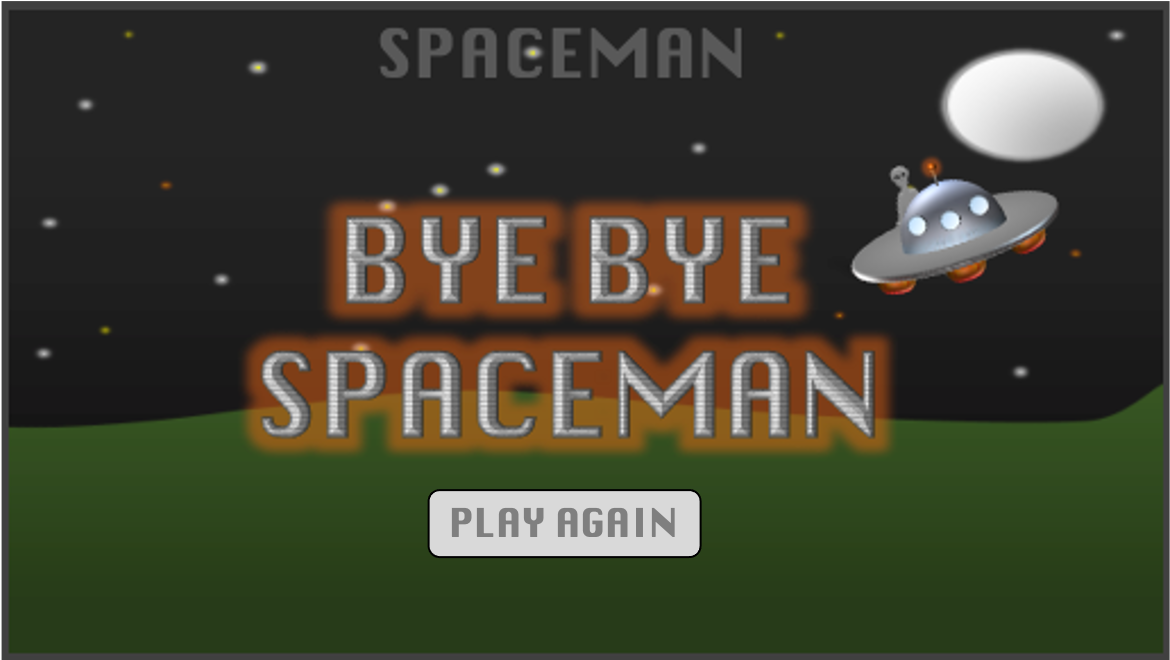
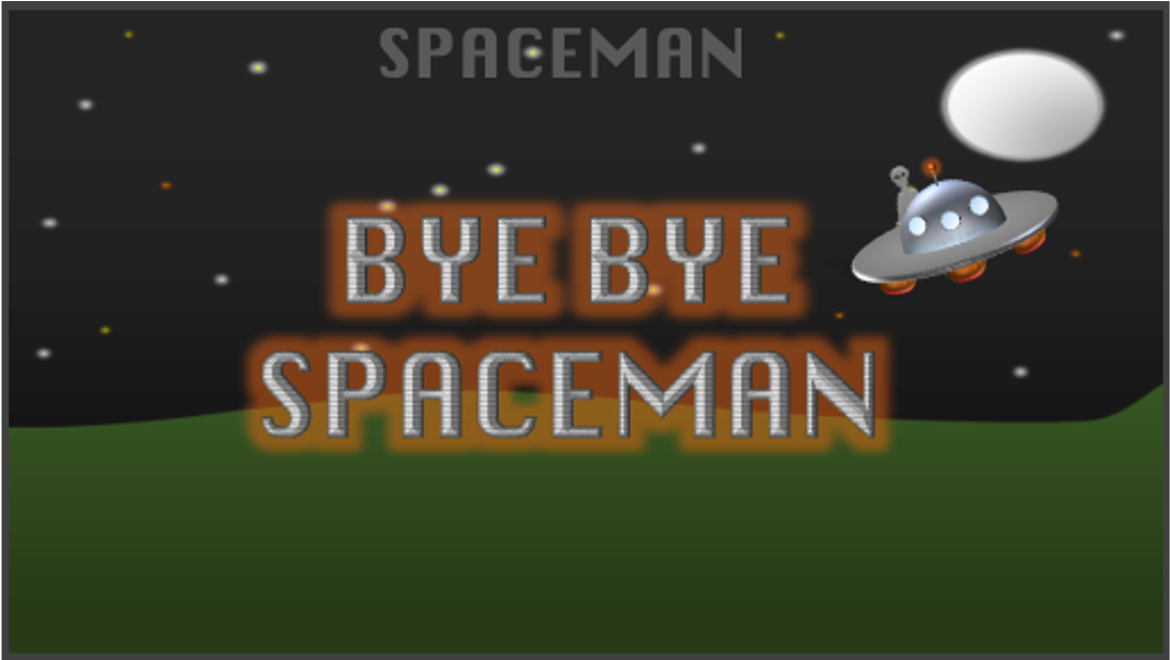
Revise play again button

Changed region(s): [[0.3385, 0.7273, 0.6154, 0.8485]]

diff --git a/js/main.js b/js/main.js
@@ -8,12 +8,13 @@ const spaceship2 = document.querySelectorAll(".images2")
 const alien = document.querySelector("#alien")
 const buildButton = document.querySelector(".buildButton")
 const playAgainButton = document.querySelector(".byebyeAlien")
+const playAgainButton2 = document.querySelector(".byebyeAlien2")
 
 //EVENT LISTENERS
 startButton.addEventListener("click", startGame)
 buildButton.addEventListener("click", buildSpaceship)
 letters.forEach((letter)=>letter.addEventListener("click", letterClick))
-playAgainButton.addEventListener("click", resetGame)
+playAgainButton2.addEventListener("click", resetGame)
 
 //FUNCTIONS
 //Start Game Function

diff --git a/index.html b/index.html
@@ -52,6 +52,7 @@
         <img class="images images2 window3"  src="images/Window3.png"/>
         <img class="images antenna" src="images/Antenna.png"/>
         <img class="images2 byebyeAlien"  src="images/ByebyeAlien.png"/>
+        <img class="images2 byebyeAlien2"  src="images/Playagainbutton.png"/>
     </div>
     <div>
         <label class="startButton images enter">Enter Word</label><br><br>

diff --git a/css/styles.css b/css/styles.css
@@ -160,6 +160,11 @@ body{
     display:none;
     z-index: 4;
 }
+.byebyeAlien2{
+    position: absolute;
+    display:none;
+    z-index: 5;
+}
 .imagehide{
     display:none;
     }
